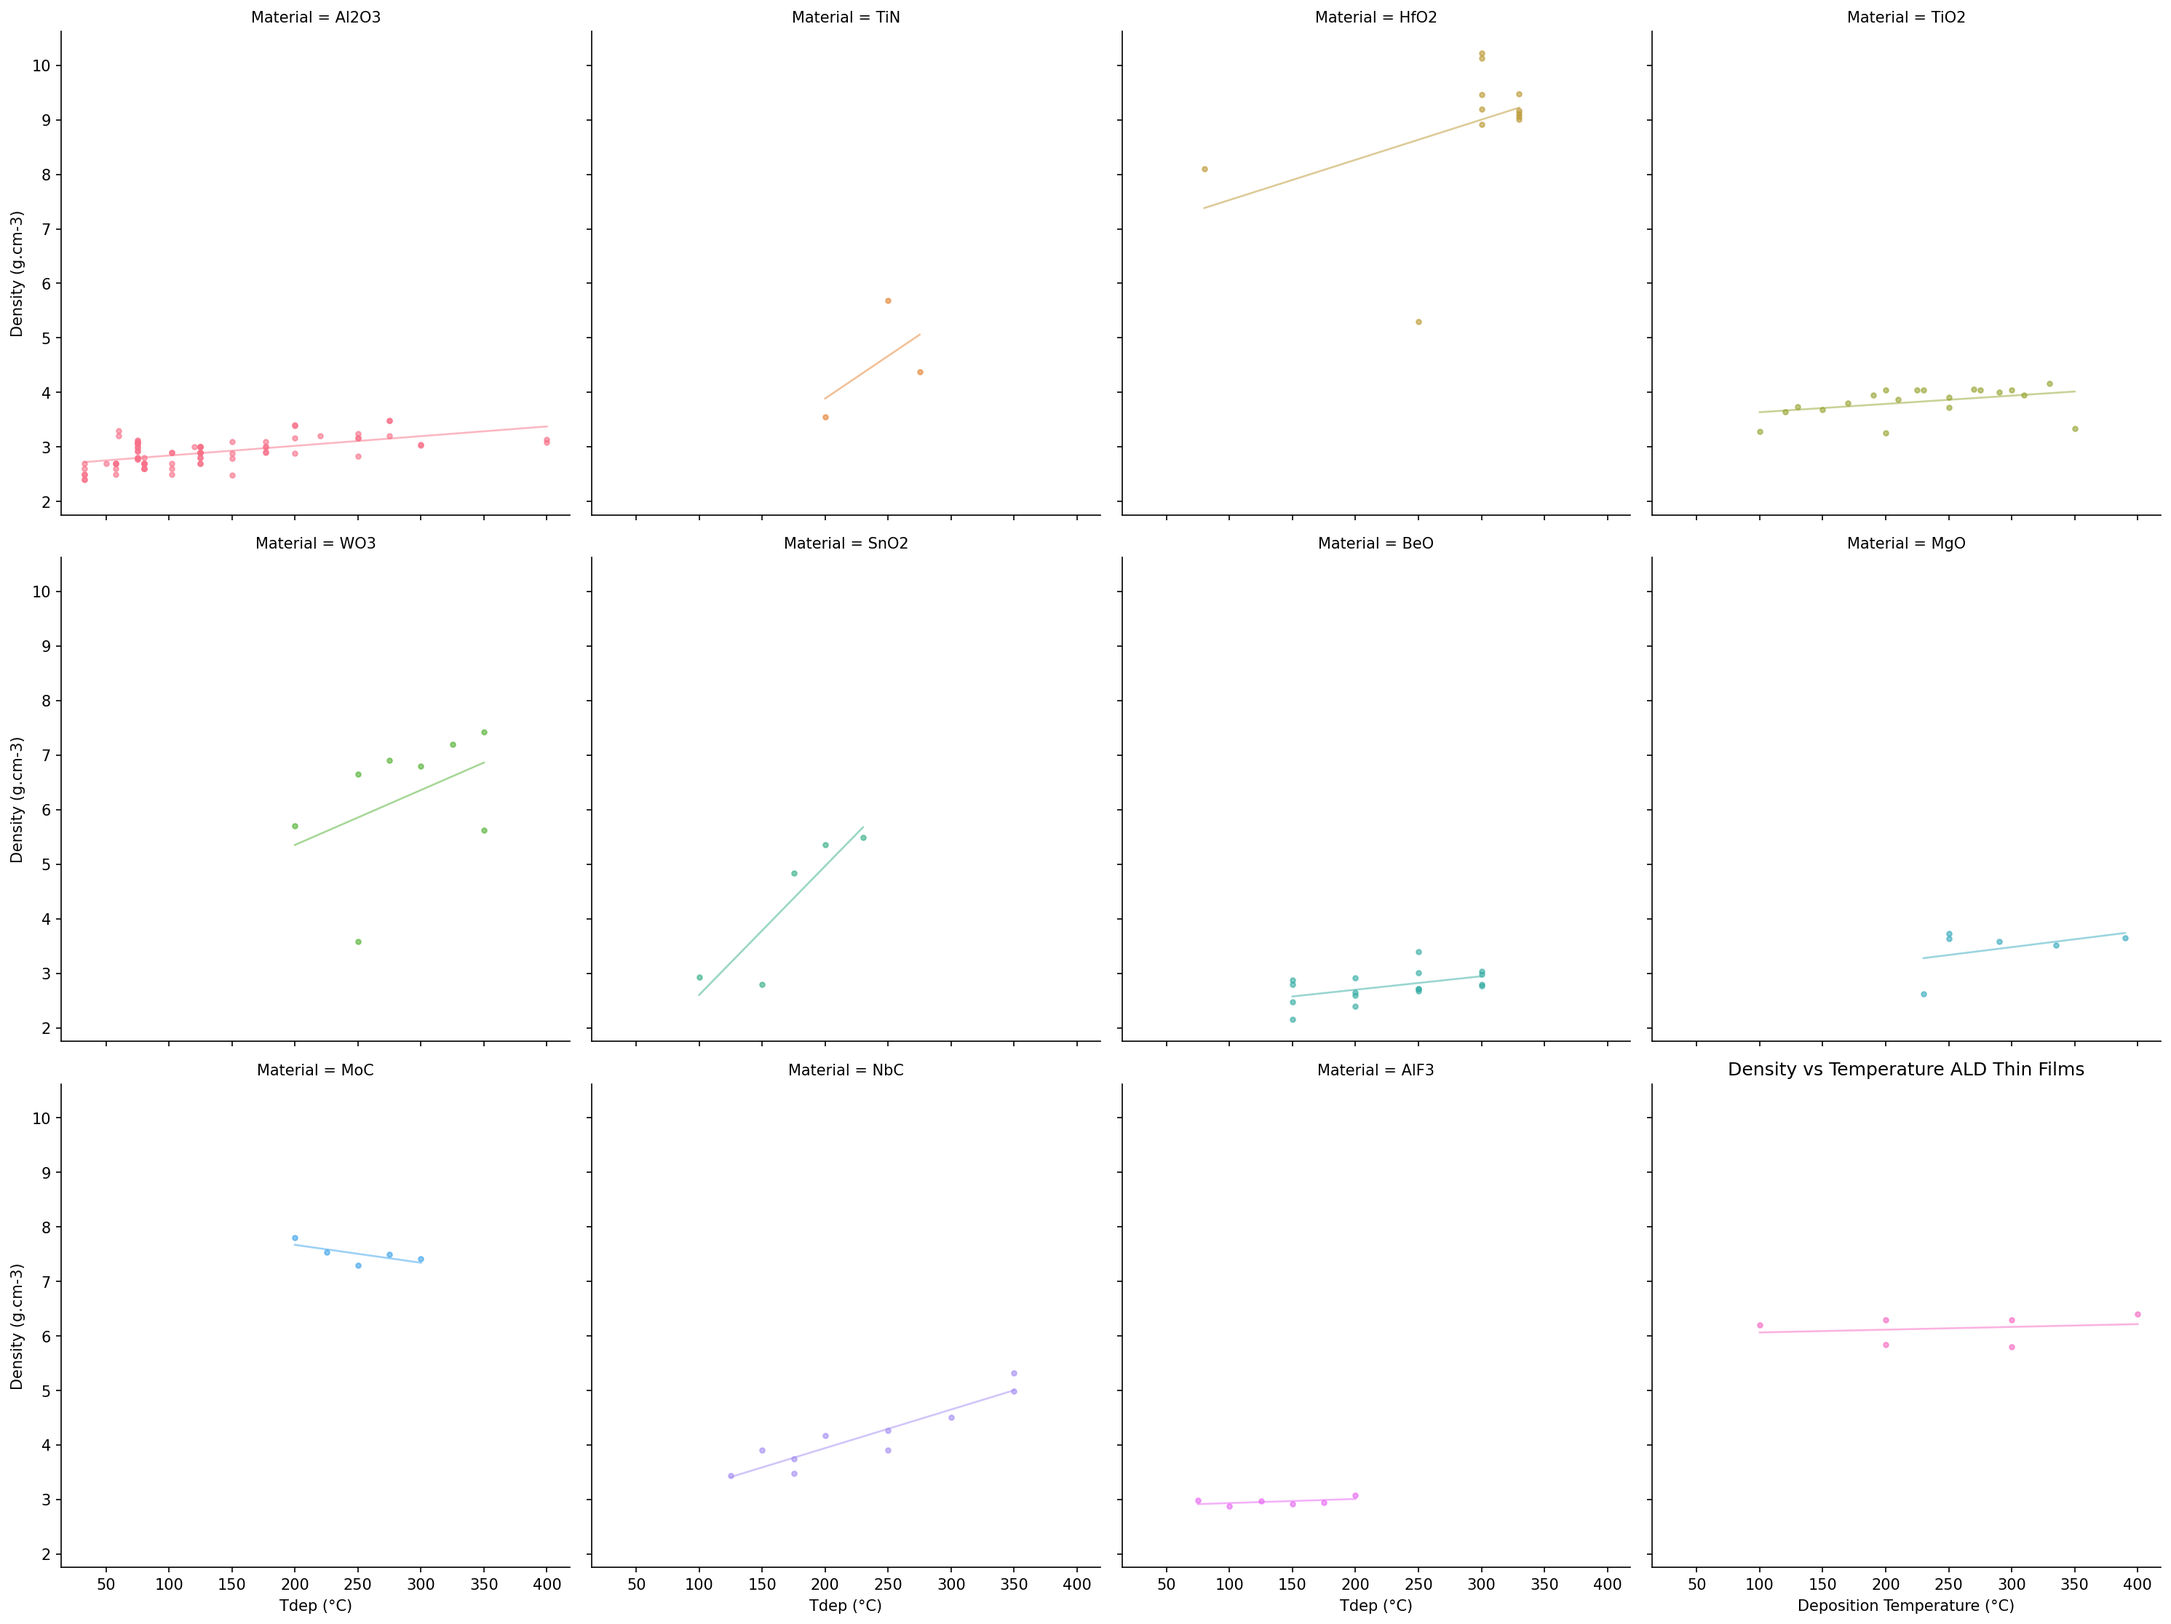
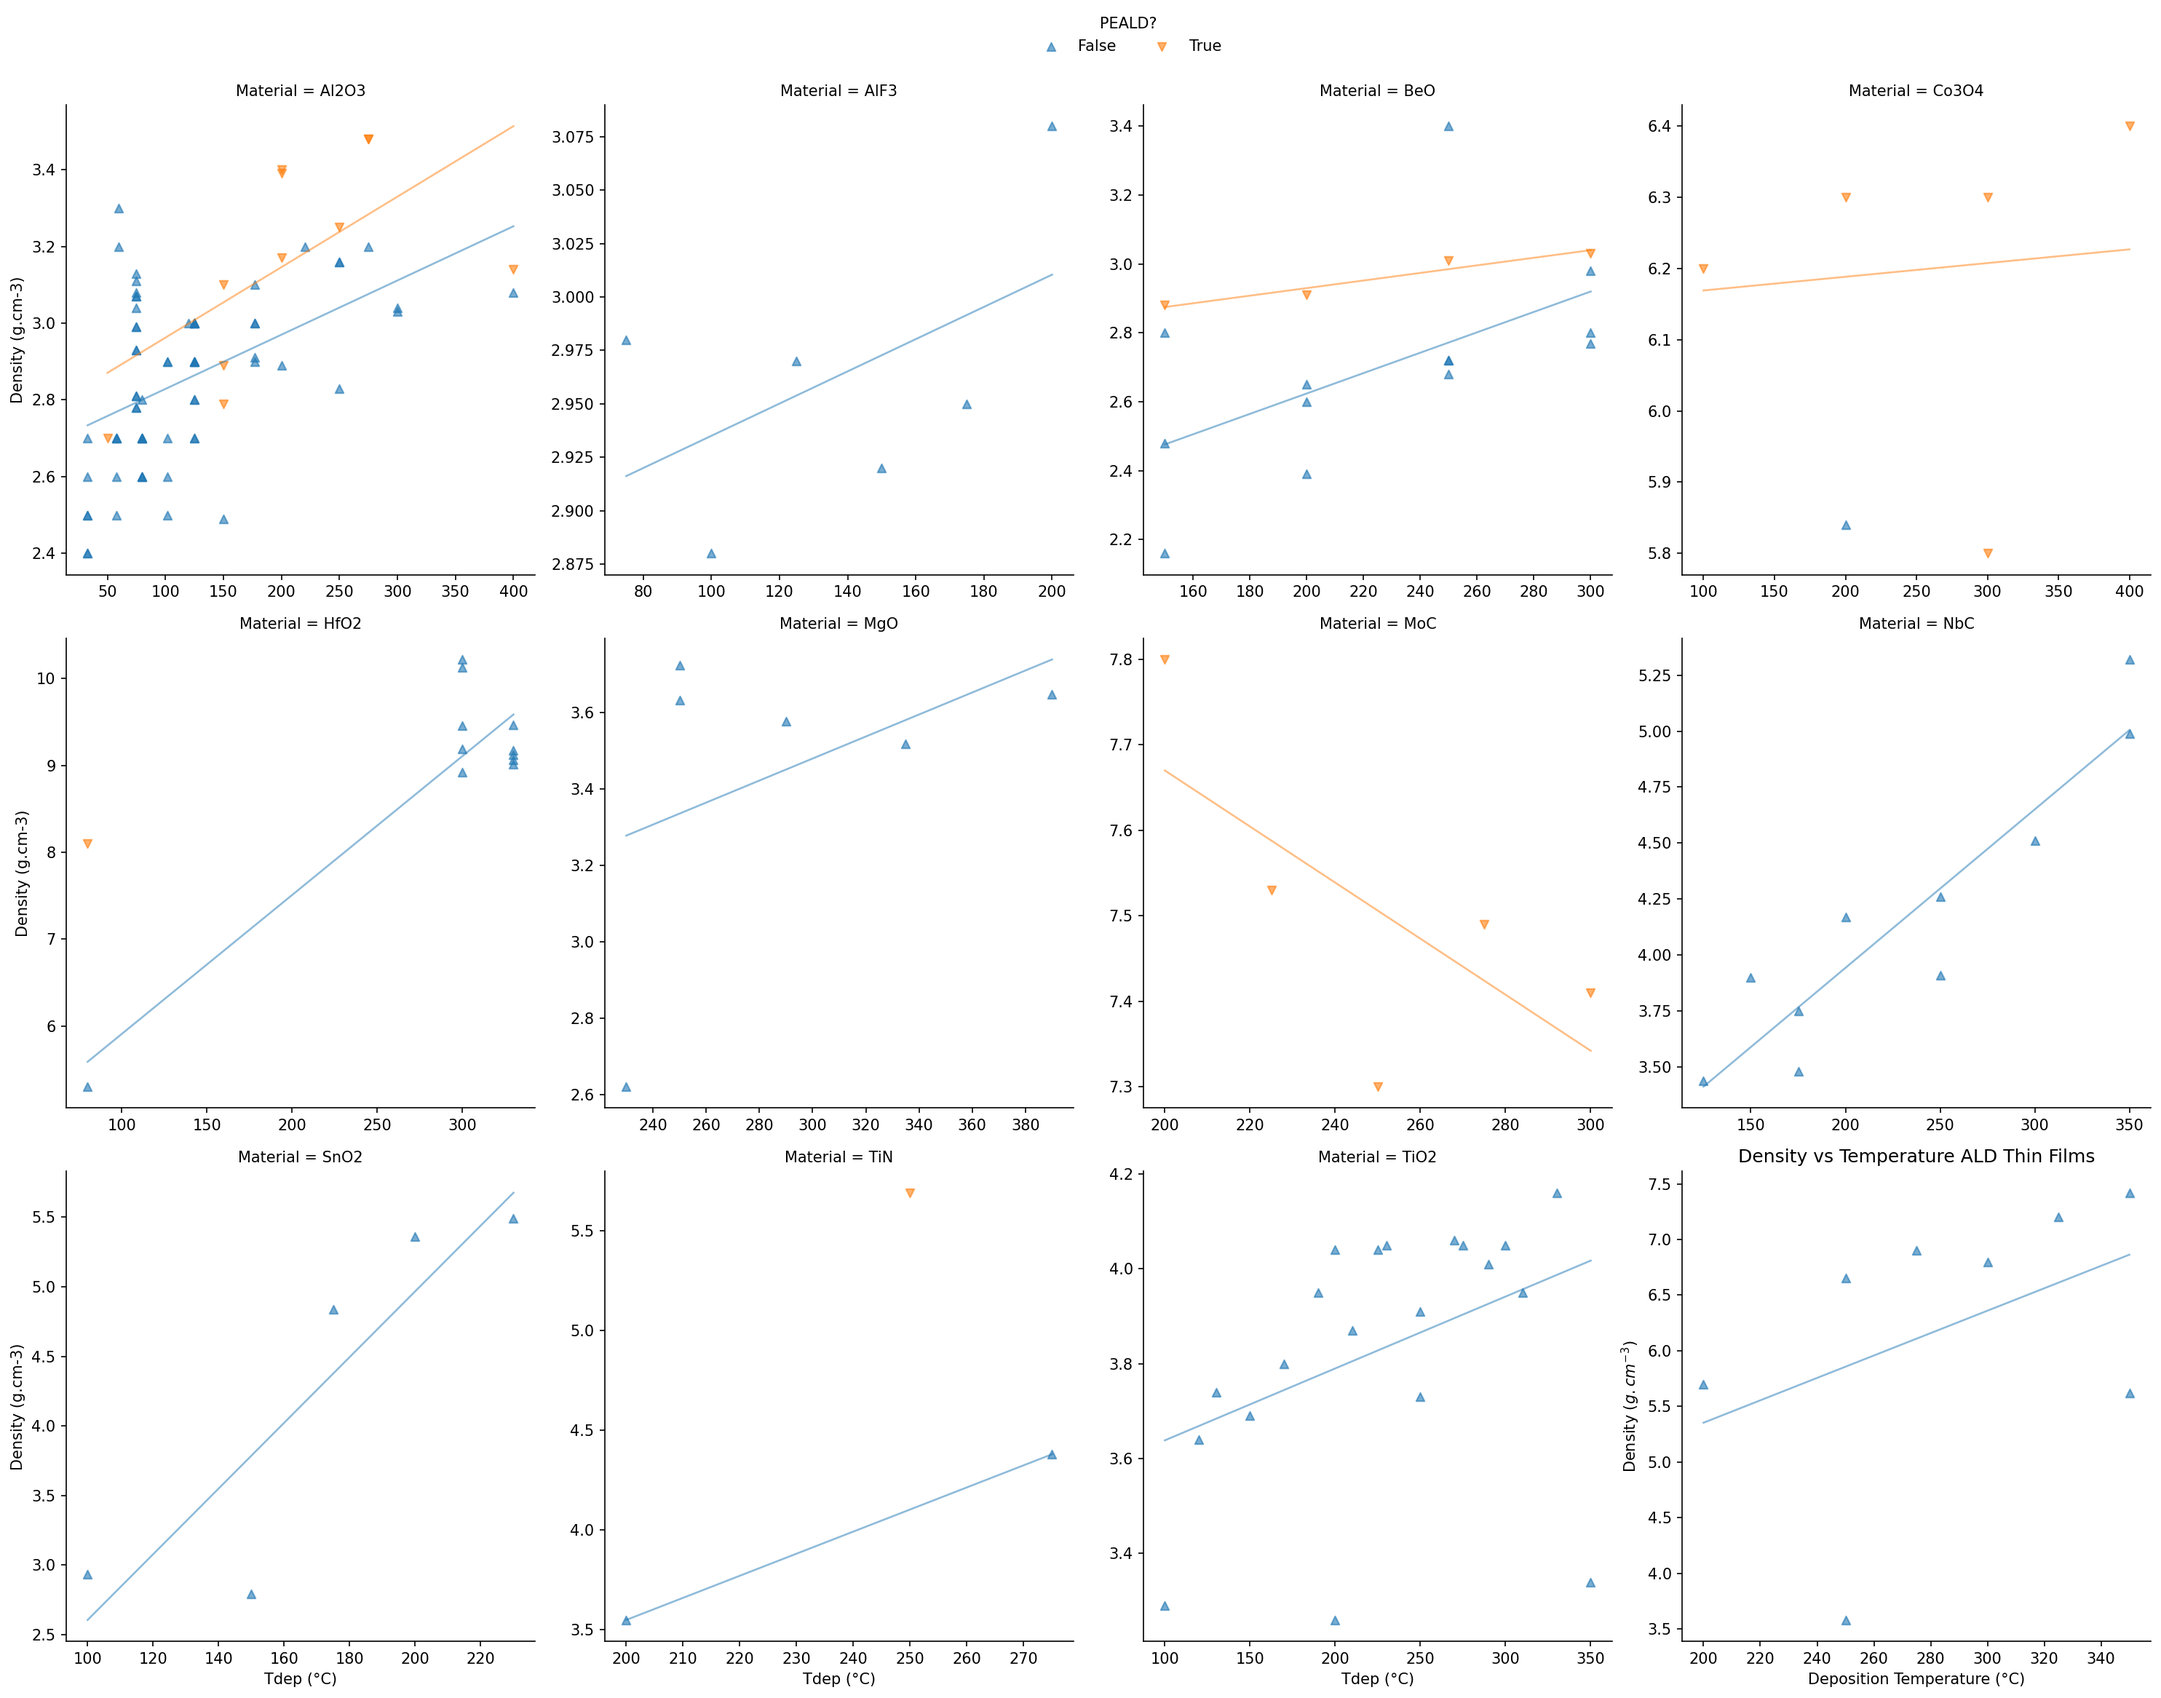
density vs tdep plot colour by peald value

diff --git a/scripts/plot_ald.py b/scripts/plot_ald.py
@@ -122,6 +122,7 @@ def get_line_plot(df, x, y, z):
 
 def get_fit_plot(df, x, y, z):
     # plot
+    print(df.info())
 
     # PLOT
     # fig1, ax1 = plt.subplots()
@@ -133,8 +134,13 @@ def get_fit_plot(df, x, y, z):
     # sns.scatterplot(data=df, x=X, y=Y, hue=Z) # scatter plot coloured by material
     # sns.regplot(data=df, x=X, y=Y, ci=None) # scatter plot with linear regression
     
-    # TODO share axes off
-    fig = sns.lmplot(data=df, x=x, y=y, hue=z, col=z, col_wrap=4, ci=None, scatter_kws={"s": 20, "alpha":0.7}, line_kws={"lw":1.25, "alpha":0.5}) # scatter plot with linear regression for each category Z 
+    
+    # scatter plot with linear regression for each category Z 
+    fig = sns.lmplot(data=df, x=x, y=y, hue="PEALD?", markers=["^", "v"], col=z, col_wrap=4, ci=None, 
+        facet_kws = dict(sharex=False, sharey=False), 
+        scatter_kws={"s": 30, "alpha":0.6}, 
+        line_kws={"lw":1.25, "alpha":0.5})
+    
     # splot2 = sns.lmplot(data=df_plot, x=X, y=Y, hue=Z, ci=None, fit_reg=False, scatter_kws={"s": 10, "alpha":0.4}) # scatter plot with linear regression for each category Z 
     # splot2 = sns.lineplot(data=df_plot, x=X, y=Y, hue=Z, marker="o")
 
@@ -151,6 +157,7 @@ def get_fit_plot(df, x, y, z):
     plt.xlabel("Deposition Temperature (°C)")
     plt.ylabel("Density $(g.cm^{-3})$")
 
+    sns.move_legend(fig, "lower center", bbox_to_anchor=(0.5, 1), ncol=2, frameon=False)
     return fig
 
 fig1 = get_fit_plot(df_plot, X, Y, Z)
